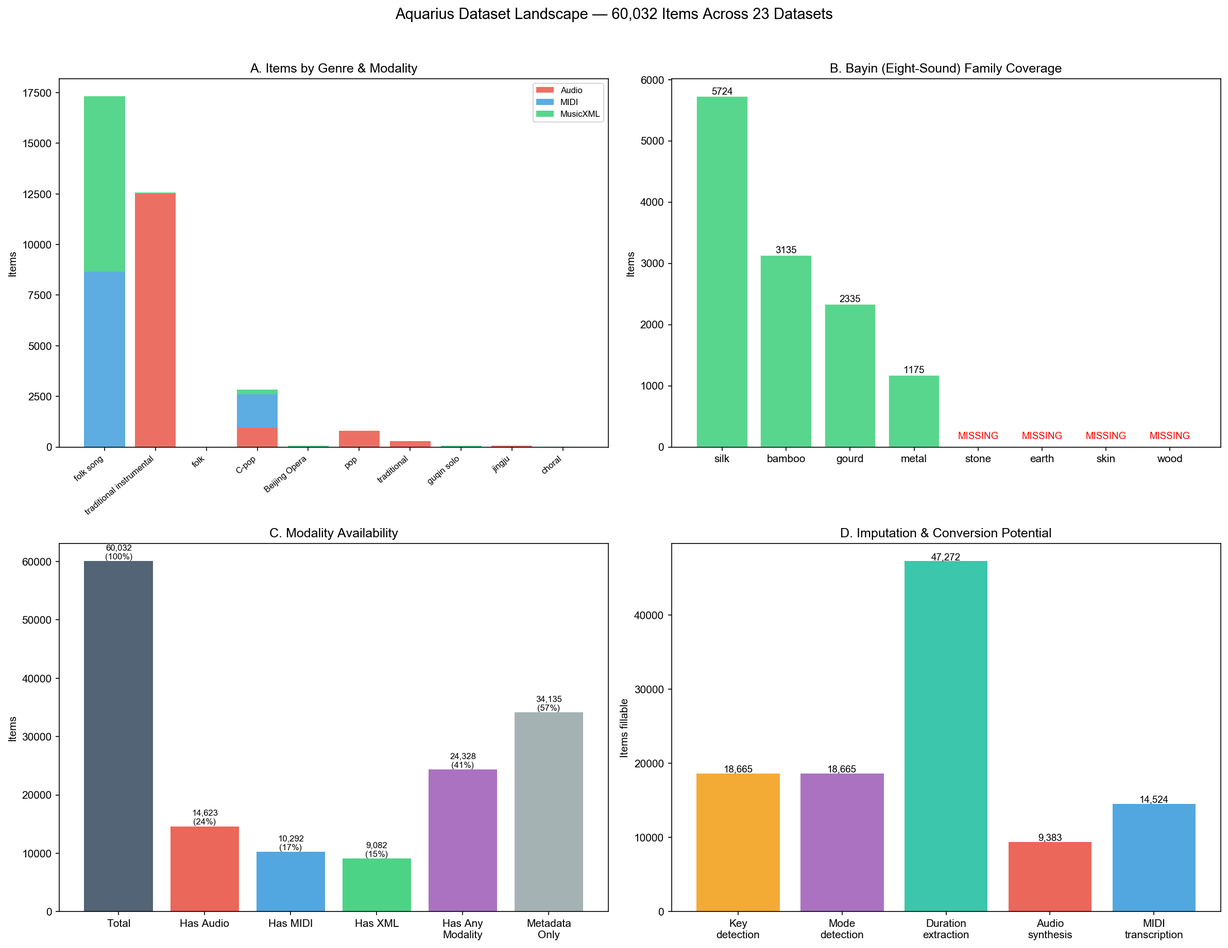
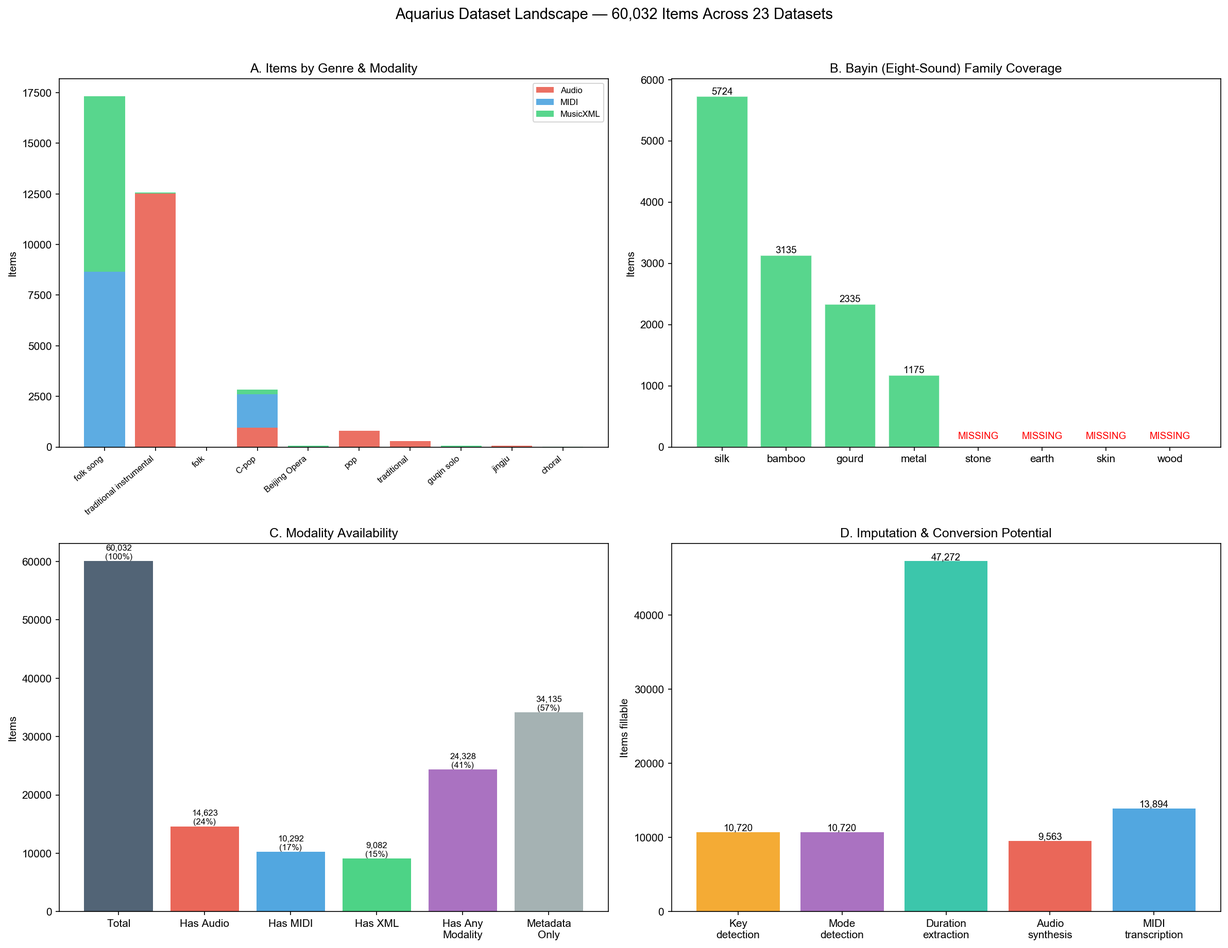
Address academic review of EDA writeup
- Add Methods section explaining tools, embedding approach, clustering
- Fix broken figure references (was "Figure 5, Panel B" → now Figure 12)
- Reference all 12 figures with a figure index table
- Fix suona bayin classification (metal → wood, matching traditional taxonomy)
- Add confidence interval for province disagreement (11.2%, CI 8.5–14.2%)
- Acknowledge K=15 was chosen heuristically, not via model selection
- Clarify granularity heterogeneity (songs vs clips vs segments)
- Add Limitations section (metadata-only, title cleaning gaps, granularity)
- Add Redistribution and Licensing section
- Add broader MIR positioning to conclusion
- Fix hardcoded numbers in notebook 3 (18,665 → 10,720 for key/mode)
- Add MIDI→MusicXML row to low-hanging fruit table
- Soften speculative claims (title classifier, CNPM training data sparsity)
- Fix ds_counts bug in notebook 2

Changed region(s): [[0.5587, 0.8046, 0.745, 0.8974], [0.9002, 0.8355, 0.9622, 0.8664], [0.8381, 0.8664, 0.8691, 0.8974]]

diff --git a/notebooks/03_gaps_and_opportunities.py b/notebooks/03_gaps_and_opportunities.py
@@ -204,12 +204,12 @@ print("=" * 60)
 
 fruits = [
     (1, "Merge Anthology ↔ MGD", "6,400 songs gain both MIDI/MusicXML AND province/key metadata", "~2 hours", "critical"),
-    (2, "Key detection on MIDI/XML", "18,665 items get key estimated via Krumhansl-Schmuckler", "~4 hours", "high"),
-    (3, "Pentatonic mode detection", "18,665 items get Chinese mode estimated, trained on 287 CNPM examples", "~1 day", "critical"),
+    (2, "Key detection on MIDI/XML", "10,720 items get key estimated via Krumhansl-Schmuckler", "~4 hours", "high"),
+    (3, "Pentatonic mode detection", "10,720 items get Chinese mode estimated, trained on 287 CNPM examples", "~1 day", "critical"),
     (4, "Fix 276 duplicate IDs", "Anthology loader bug: items in both lyrics-included/ and melody-only/ get same ID", "~30 min", "quick"),
     (5, "POP909 year lookup", "909 songs get release year via MusicBrainz (artist+title known)", "~2 hours", "medium"),
-    (6, "MIDI→Audio synthesis", "9,383 folk songs get synthesized audio via FluidSynth", "~1 day", "medium"),
-    (7, "Audio→MIDI transcription", "14,524 audio clips get MIDI via Basic Pitch", "~2 days", "medium"),
+    (6, "MIDI→Audio synthesis", "9,563 folk songs get synthesized audio via FluidSynth", "~1 day", "medium"),
+    (7, "Audio→MIDI transcription", "13,894 audio clips get MIDI via Basic Pitch", "~2 days", "medium"),
     (8, "Remove/flag PMEmo", "794 items are Western pop, not Chinese music — flag or exclude", "~15 min", "quick"),
     (9, "Duration extraction", "~47,000 items missing duration — extract from audio/MIDI files", "~4 hours", "medium"),
     (10, "Cross-link singing datasets", "~200 songs shared across M4Singer/GTSinger/POP909 — multi-singer linkage", "~2 hours", "medium"),
@@ -282,7 +282,7 @@ for i, v in enumerate(vals):
 # Panel D: What's fillable
 ax = axes[1, 1]
 fill_labels = ['Key\ndetection', 'Mode\ndetection', 'Duration\nextraction', 'Audio\nsynthesis', 'MIDI\ntranscription']
-fill_vals = [18665, 18665, 47272, 9383, 14524]
+fill_vals = [10720, 10720, 47272, 9563, 13894]
 fill_colors = ['#f39c12', '#9b59b6', '#1abc9c', '#e74c3c', '#3498db']
 ax.bar(fill_labels, fill_vals, color=fill_colors, alpha=0.85)
 ax.set_ylabel('Items fillable')

diff --git a/notebooks/eda_writeup.md b/notebooks/eda_writeup.md
@@ -1,8 +1,22 @@
 # Aquarius EDA: What 60,000 Items of Chinese Music Actually Look Like
 
+## Approach
+
+The analysis operates on `master_table.parquet`, a unified table of 60,032 items produced by 23 dataset-specific loaders. All analysis is metadata-level — we examine the structure, coverage, and overlap of the unified table rather than the audio or symbolic content itself. Content-level analysis (pitch distributions, spectral features, MIDI quality) is deferred to future work.
+
+Three analysis passes were run:
+
+1. **Overview** (`01_overview.py`): dataset composition, modality coverage, genre/instrument/province distributions, metadata sparsity.
+2. **Deep analysis** (`02_deep_analysis.py`): cross-dataset title matching, duplicate ID detection, TF-IDF character n-gram embeddings (5,000 features, 1–3 character range) with TruncatedSVD projection to 50 dimensions, KMeans clustering (K=15, chosen heuristically), and statistical anomaly detection.
+3. **Gap analysis** (`03_gaps_and_opportunities.py`): modality conversion opportunities, metadata imputation potential, missing traditions.
+
+Tools: pandas, scikit-learn, matplotlib. All figures are in `notebooks/figures/`.
+
 ## The Big Picture
 
 Aquarius pulls together 23 datasets into a single table of 60,032 items spanning folk songs, traditional instrumental music, C-pop, Beijing Opera, and a handful of smaller traditions. On paper, that sounds like a lot. In practice, the picture is more complicated — and more interesting — than raw numbers suggest.
+
+An important caveat upfront: this is not a table of 60,032 songs. The items vary in granularity — 47,359 are full songs, 12,593 are short clips (e.g., a 3-second guzheng technique sample), 50 are phrase-level segments, and 30 are collection-level entries. These are fundamentally different units of analysis, and the raw count overstates the breadth of song-level coverage.
 
 The dataset is dominated by two collections: MGD (31,761 folk song metadata entries) and FolkMusic/Zenodo (11,966 instrument clips). Together they account for 73% of everything. The remaining 21 datasets split the other 16,000 items across a wide range of genres and formats (Figure 1).
 
@@ -13,47 +27,50 @@ This creates a strange asymmetry: the biggest chunk of the database has no actua
 
 ## The Modality Problem
 
-The metadata sparsity heatmap (Figure 2) tells the real story. Each row is a dataset, each column is a metadata field, and the color shows how complete it is. The sea of red is striking.
+The metadata sparsity heatmap (Figure 6) tells the real story. Each row is a dataset, each column is a metadata field, and the color shows how complete it is. The sea of red is striking.
 
 ![Metadata sparsity](figures/06_metadata_sparsity.png)
-*Figure 2: Metadata coverage across datasets. Green cells are fully populated, red cells are completely empty. Most of the table is red.*
+*Figure 6: Metadata coverage across datasets. Green cells are fully populated, red cells are completely empty. Most of the table is red.*
 
 A few things jump out:
 
 - **Title** is well-covered (74%) but everything else drops off fast: artist (3%), key (4%), mode (0.5%), year (0.1%).
 - **Province** looks great at 71%, but that's almost entirely MGD contributing its geographic labels.
 - **Instrument** is at 25%, boosted by FolkMusic/Zenodo's 11,966 labeled clips.
-- **Temporal data is nearly absent.** Only 41 items in the entire database have a year attached (all from CCOM-HuQin, ranging 1917–2017). We know roughly *nothing* about when 99.8% of these pieces were composed or recorded.
+- **Temporal data is nearly absent.** Only 41 items in the entire database have a year attached (all from CCOM-HuQin, ranging 1917–2017). We know roughly *nothing* about when 99.9% of these pieces were composed or recorded.
 - **CCOM-HuQin** is the only dataset with meaningful coverage across multiple metadata fields — title, artist, composer, year, province, key, instrument, playing technique. It only has 159 items, but it's the richest per-item.
 
-The genre-by-modality breakdown reveals a structural gap: **folk songs have MIDI but no audio, while instrumental recordings have audio but no MIDI.** Almost no genre has all modalities covered (Figure 3).
+The genre-by-modality breakdown (Figure 8) reveals a structural gap: **folk songs have MIDI but no audio, while instrumental recordings have audio but no MIDI.** Almost no genre has both modalities covered.
 
 ![Genre × modality](figures/08_genre_modality.png)
-*Figure 3: Modality coverage by genre. Folk songs are rich in symbolic data; instrumental music is rich in audio. Barely any overlap.*
+*Figure 8: Modality coverage by genre. Folk songs are rich in symbolic data; instrumental music is rich in audio. Barely any overlap.*
 
-## The Anthology–MGD Elephant
+## The Anthology–MGD Overlap
 
-The single most important finding is the massive overlap between two folk song collections. The Anthology of Chinese Folk Songs and the MGD dataset share **6,402 song titles** — that's 74% of Anthology's 8,654 items appearing in MGD's 31,761.
+The single most important finding is the massive overlap between two folk song collections. The Anthology of Chinese Folk Songs and the MGD dataset share **6,402 song titles** — that's 74% of Anthology's 8,654 items appearing in MGD's 31,761. The title overlap matrix (Figure 7) makes this dominance visually obvious: the Anthology–MGD cell dwarfs every other pairwise overlap.
 
-But they're not duplicates in the traditional sense. They're complementary:
+![Title overlap matrix](figures/07_title_overlap_matrix.png)
+*Figure 7: Pairwise title overlap between datasets. The Anthology–MGD overlap (6,402 titles) dominates all other pairs by orders of magnitude.*
 
-- **Anthology** has the music: MIDI files and MusicXML scores for each song.
+But they aren't duplicates in the traditional sense. They're complementary:
+
+- **Anthology** has the music: all 8,654 items have both MIDI files and MusicXML scores.
 - **MGD** has the metadata: province, location, and (in some cases) genre sub-type labels.
 
-Right now they sit as separate entries in the table. Merging them would instantly create 6,400 richly annotated folk songs with both symbolic music data *and* geographic metadata. That's arguably the single highest-impact operation we can do.
+Right now they sit as separate entries in the table. Merging them would instantly create ~6,400 richly annotated folk songs with both symbolic music data *and* geographic metadata. That's arguably the single highest-impact operation we can do.
 
-There's a catch, though. When we checked province agreement on shared titles, **56 out of 500 sampled pairs disagreed on province**. That means roughly 11% of the "matches" might actually be different songs that happen to share a title. (Folk song titles are often generic — "Mountain Song," "Work Song," "Love Song" — so this isn't surprising.) Any merge pipeline needs to cross-validate on province, not just title.
+There's a catch, though. When we checked province agreement on shared titles, **56 out of 500 sampled pairs disagreed on province** (11.2%, 95% CI roughly 8.5–14.2%). The 500 were drawn from a set intersection with arbitrary ordering, not a true random sample, so this estimate carries some additional uncertainty. Folk song titles are often generic — "Mountain Song," "Work Song," "Love Song" — so title-only matching will produce false positives. Any merge pipeline needs to cross-validate on province at minimum, and ideally on melodic similarity as well.
 
 ## Title Embeddings: The Shape of Chinese Music
 
-We embedded all 30,000 titled items using character n-gram TF-IDF and projected them into 2D (Figure 4). The structure is revealing.
+We embedded up to 30,000 titled items (sampled from the full titled set when it exceeds 30,000 rows) using character n-gram TF-IDF (unigrams through trigrams, 5,000 features) and projected them to 2D via TruncatedSVD (Figure 10). The character n-gram approach works well for Chinese text because it bypasses the need for word segmentation — each character and short character sequence is a feature. The two SVD components capture only a fraction of the total variance, so fine structure should be interpreted cautiously.
 
 ![Title embeddings](figures/10_title_embeddings.png)
-*Figure 4: Title embeddings colored by dataset (left) and genre (right). Folk songs form a broad cloud; PMEmo's English titles cluster tightly in a separate region.*
+*Figure 10: Title embeddings colored by dataset (left) and genre (right). Folk songs form a broad cloud; PMEmo's English titles cluster tightly in a separate region.*
 
-The left panel shows MGD (blue) and Anthology (orange) heavily overlapping — confirming the title-matching analysis. PMEmo's English-language pop songs (orange dots near the origin) form a tight, completely separate cluster. They're literally in a different language, and the embedding picks that up immediately.
+The left panel shows MGD and Anthology heavily overlapping — confirming the title-matching analysis. PMEmo's English-language pop songs form a tight, completely separate cluster. They're literally in a different language, and the character n-gram representation picks that up immediately.
 
-The clustering analysis found 15 natural groupings, each with a distinct thematic flavor:
+We applied KMeans clustering with K=15 (chosen heuristically; we did not perform a formal model selection via silhouette score or elbow method). Despite this, the resulting clusters show thematically coherent groupings:
 
 - **Cluster 0**: Love songs (妹/哥/心/情 — "sister/brother/heart/feeling")
 - **Cluster 2**: Work songs about tamping/pounding (夯/打/号子 — construction chants)
@@ -63,45 +80,70 @@ The clustering analysis found 15 natural groupings, each with a distinct themati
 - **Cluster 8**: Peddler songs (卖 — "selling" things)
 - **Cluster 13**: Work chants/号子 (labor songs with rhythmic shouting)
 
-The fact that title text alone produces thematically coherent clusters suggests that Chinese folk song titles are *highly* informative about content. A title-based classifier could probably do a reasonable job at sub-genre classification without looking at any musical features.
+The most frequent title keywords (Figure 9) confirm these patterns — terms like 山歌 (mountain song), 小调 (ditty), 花 (flower), and 号子 (work chant) dominate.
+
+![Title keywords](figures/09_title_keywords.png)
+*Figure 9: Most frequent keywords in song titles, reinforcing the thematic clusters found via embedding.*
+
+The fact that title text alone produces thematically coherent clusters suggests that Chinese folk song titles carry significant semantic information about content. Whether this extends to a useful sub-genre classifier would require a formal evaluation against labeled data.
 
 ## Instrument Coverage: Half the Bayin Is Missing
 
-Chinese musicology traditionally classifies instruments into eight categories (八音/bayin): silk, bamboo, metal, stone, earth, skin, gourd, and wood. Aquarius covers only four of them (Figure 5, Panel B):
+Chinese musicology traditionally classifies instruments into eight categories (八音/bayin): silk (丝), bamboo (竹), metal (金), stone (石), earth (土), skin (革), gourd (匏), and wood (木). Aquarius covers only a subset, and even the covered categories involve some judgment calls — bayin classification is not always clear-cut for modern performance contexts. Our assignments (Figure 12, Panel B):
 
-- **Silk** (strings): 5,724 items — erhu, pipa, guzheng, etc.
-- **Bamboo** (flutes): 3,135 — dizi, dongxiao, hulusi
-- **Gourd** (free-reed): 2,335 — sheng
-- **Metal** (bells/gongs): 1,175 — suona (classified here for its metal bell)
+![Landscape summary](figures/12_landscape_summary.png)
+*Figure 12: Four-panel landscape summary. Panel A: items by genre and modality. Panel B: bayin family coverage. Panel C: modality availability. Panel D: imputation and conversion potential.*
 
-Completely absent: **stone** (chimes), **earth** (clay ocarinas), **skin** (drums), and **wood** (clappers/woodblocks). This means no percussion of any kind — a major gap for a database that aims to represent Chinese music broadly. Drum patterns are central to Beijing Opera, festival music, and ensemble performance.
+- **Silk** (strings): erhu, pipa, guzheng, zhongruan, etc.
+- **Bamboo** (wind): dizi, dongxiao, hulusi
+- **Gourd** (free-reed mouth organ): sheng (historically classified under 匏 for its gourd wind chamber)
+- **Wood** (木): suona (traditionally 木 in bayin taxonomy, as the body is wooden despite the metal bell)
+
+Completely absent: **stone** (lithophone/chimes), **earth** (clay ocarinas like the xun), **skin** (drums and membranophones), and **metal** (bells, gongs, cymbals). This means no percussion of any kind — a major gap for a database that aims to represent Chinese music broadly. Drum patterns are central to Beijing Opera, festival music, and ensemble performance.
 
 ## A Few Surprises
 
-**The Kaggle key distribution is suspiciously uniform.** The 2,374 items from the Traditional Chinese Folk Music dataset on Kaggle show an almost perfectly flat distribution across six keys (D: 15.8%, A: 16.3%, F: 17.3%, E: 17.2%, C: 16.8%, G: 16.7%). Real folk music doesn't behave this way — Chinese folk songs cluster heavily around G, D, and C due to pentatonic tuning conventions. This uniformity suggests the keys may have been randomly assigned or derived from a model rather than from ground-truth analysis.
+**The Kaggle key distribution is suspiciously uniform.** The 2,374 items from the Traditional Chinese Folk Music dataset on Kaggle show an almost perfectly flat distribution across six keys (D: 15.8%, A: 16.3%, F: 17.3%, E: 17.2%, C: 16.8%, G: 16.7%). By comparison, the CNPM dataset — which provides ground-truth key labels for 287 pieces — shows heavy clustering around a smaller set of tonics. The near-uniform distribution in the Kaggle data is consistent with random assignment or automated key estimation with poor calibration, rather than expert annotation.
 
-**PMEmo doesn't belong.** 794 items are Western pop music (English-language titles like "Stay," "Head Over Boots," "America's Sweetheart"). They're from the PMEmo emotion recognition dataset, which happens to be listed under CSMTD but isn't Chinese music at all. These should be flagged or excluded from any analysis of Chinese musical traditions. The title embedding visualization separates them cleanly.
+**PMEmo is not Chinese music.** 794 items are Western pop music (English-language titles like "Stay," "Head Over Boots," "America's Sweetheart"). They're from the PMEmo emotion recognition dataset, which is listed under CSMTD but contains international popular music selected for emotion research. These should be flagged or excluded from any analysis of Chinese musical traditions. The title embedding visualization separates them cleanly.
 
-**276 unified IDs are duplicated** in the Anthology dataset. This is a loader bug: songs that appear in both the `lyrics-included/` and `melody-only/` subdirectories get assigned the same ID. Quick fix, but it inflates the item count by about 680 rows.
+**276 unified IDs are duplicated** in the Anthology dataset. This is a loader bug: songs that appear in both the `lyrics-included/` and `melody-only/` subdirectories get assigned the same ID. A straightforward fix, but it currently inflates the item count by about 680 rows.
 
 **173 songs appear across the singing datasets** (M4Singer, GTSinger, POP909). These aren't duplicates — they're the *same songs performed by different singers*. Songs like「不再见」and「匆匆那年」appear in all three datasets. This is actually valuable: it enables cross-singer comparison studies, voice conversion benchmarks, and arrangement analysis. They should be cross-linked rather than deduplicated.
 
 ## The Low-Hanging Fruit
 
-Here's what can be done without collecting new data, ranked by effort-to-impact ratio:
+Here's what can be done without collecting new data, ranked roughly by effort-to-impact ratio:
 
-| Priority | Action | Impact | Effort |
-|----------|--------|--------|--------|
-| 1 | Merge Anthology ↔ MGD by title | 6,400 songs get both MIDI and metadata | ~2 hours |
-| 2 | Key detection on MIDI/MusicXML items | 10,720 items get key via Krumhansl-Schmuckler | ~4 hours |
-| 3 | Pentatonic mode detection | 10,720 items get Chinese mode (train on 287 CNPM examples) | ~1 day |
-| 4 | Fix duplicate IDs | Anthology loader bug, 276 duplicated IDs | ~30 min |
-| 5 | POP909 year lookup | 909 songs get release year via MusicBrainz | ~2 hours |
-| 6 | MIDI → audio synthesis | 9,383 folk songs get synthesized audio via FluidSynth | ~1 day |
-| 7 | Audio → MIDI transcription | 13,894 audio clips get MIDI via Basic Pitch | ~2 days |
-| 8 | Flag/exclude PMEmo | 794 non-Chinese items properly labeled | ~15 min |
+| # | Action | Impact | 
+|---|--------|--------|
+| 1 | Merge Anthology ↔ MGD by title+province | ~6,400 songs get both MIDI and metadata |
+| 2 | Key detection on MIDI/MusicXML items | 10,720 items get key via Krumhansl-Schmuckler |
+| 3 | Pentatonic mode detection | 10,720 items get Chinese mode labels |
+| 4 | Fix duplicate IDs | Anthology loader bug, 276 duplicated IDs |
+| 5 | POP909 year lookup | 909 songs get release year via MusicBrainz |
+| 6 | MIDI → audio synthesis | 9,563 items get synthesized audio via FluidSynth |
+| 7 | Audio → MIDI transcription | 13,894 audio clips get MIDI via Basic Pitch |
+| 8 | MIDI → MusicXML conversion | 1,638 items get score representation via music21 |
+| 9 | Flag/exclude PMEmo | 794 non-Chinese items properly labeled |
 
-The mode detection opportunity is especially significant. Right now, only 287 items (from CNPM) have Chinese pentatonic mode labels. But 10,720 items have MIDI or MusicXML data from which mode can be computationally estimated. CNPM's 287 ground-truth examples span all 5 modes × 12 tonics × 6 scale systems — enough to train and validate a mode classifier. This is the single most important contribution Aquarius can make: **the first large-scale Chinese pentatonic mode annotation.**
+The conversion opportunity breakdown (Figure 11) visualizes these counts per dataset.
+
+![Conversion opportunities](figures/11_conversion_opportunities.png)
+*Figure 11: Conversion opportunities by dataset. Key/mode detection has the broadest reach; audio transcription targets the instrumental collections.*
+
+The mode detection opportunity deserves special attention. Right now, only 287 items (from CNPM) have Chinese pentatonic mode labels (宫/商/角/徵/羽). 10,720 items have MIDI or MusicXML data from which mode could be computationally estimated. However, CNPM's 287 ground-truth examples span 5 modes × 12 tonics × 6 scale systems, which means coverage of the 360 possible mode-tonic-scale combinations is very thin — less than one example per class on average. A practical classifier would likely need to reduce the label space (e.g., predict mode only, ignoring tonic and scale system) or use a hierarchical approach. Even so, scaling pentatonic mode annotation from 287 to thousands of items would be a meaningful contribution to computational Chinese musicology.
+
+## Redistribution and Licensing
+
+Not all 60,032 items can be freely redistributed, which matters for a TISMIR dataset paper. Of the 23 datasets:
+
+- **Freely redistributable**: POP909 (MIT), Kaggle Folk Music (CC0), CCOM-HuQin (CC-BY-4.0), FolkMusic/Zenodo (CC-BY-4.0), ACE/OpenCPOP (CC-BY-NC-4.0), Chinese Chorales (public domain)
+- **Institutional restriction**: The CCMusic ecosystem (CTIS, GZ-IsoTech, CNPM, Erhu Playing Technique, Guzheng Tech99, Jingju datasets) is licensed CC-BY-4.0 but restricted to "the applicant and members of the applicant's department or research institution"
+- **Gated or custom**: M4Singer (no redistribution), GTSinger (HuggingFace gated), PMEmo (research-only)
+- **Unclear**: Guqin, Anthology, MGD, ChMusic — license terms need clarification from authors
+
+The Aquarius unified table itself can contain metadata and pointers for all items, but direct redistribution of audio/MIDI content requires per-dataset compliance. The full license audit is in `docs/license_audit.md`.
 
 ## What's Still Missing
 
@@ -109,14 +151,43 @@ Beyond the bayin gaps (no percussion), several major Chinese musical traditions 
 
 - **Kunqu Opera** — the "mother of Chinese opera," UNESCO Intangible Cultural Heritage, zero items
 - **Cantonese Opera** — one of the three major Chinese opera forms, zero items
-- **Chinese orchestra/ensemble** — all datasets are solo instrument or voice recordings
+- **Chinese orchestra/ensemble** — all datasets contain solo instrument or solo voice recordings
 - **Buddhist and Taoist ritual music** — an important scholarly field, zero items
 - **Minority music beyond Xinjiang** — Tibetan, Mongolian, Dai, Miao, Yi, Bai music largely absent
 
 The temporal dimension is almost entirely blank. Without knowing *when* music was composed or recorded, it's impossible to study historical trends, stylistic evolution, or the influence of political/cultural events on musical practice. This is the hardest gap to fill because most folk song collections simply don't record dates.
 
+## Limitations
+
+This analysis is metadata-level only. We examined the structure, coverage, and overlap of the unified table, but did not analyze the actual musical content — no pitch distributions, spectral features, MIDI quality checks, or audio-level statistics. A content-level analysis would strengthen several of the findings here (e.g., verifying the Kaggle key anomaly against actual audio, checking Anthology MIDI quantization quality, measuring duration distributions across genres).
+
+The title-based deduplication relies on exact string matching after normalization (stripping Chinese quotation marks and parentheses). This misses alternate transliterations, character variants, and titles that differ only in bracketed annotations. A content-based matching approach (e.g., melodic similarity) would catch overlaps that title matching misses.
+
+The title-cleaning regex does not handle all bracket styles (【】, 《》) or interpunct (·), which may cause false negatives in overlap counts.
+
+The granularity heterogeneity — mixing songs, clips, segments, and collections in one table — complicates summary statistics. When we say "60,032 items," that includes 3-second technique samples alongside complete folk songs. Users of the database will need to filter by granularity for most analytical purposes.
+
 ## Conclusion
 
-Aquarius is wide but uneven. It captures a genuine breadth of Chinese musical traditions — from 31-province folk song collections to Beijing Opera phoneme annotations to Guzheng technique detection — but the depth varies wildly. The biggest quick win is merging the Anthology and MGD datasets, which would transform ~6,400 entries from partial records into richly annotated, multi-modal items. The biggest research win is pentatonic mode detection at scale. And the biggest remaining gap is the complete absence of percussion, ensemble music, and non-Beijing opera traditions.
+Aquarius is wide but uneven. It captures a genuine breadth of Chinese musical traditions — from 31-province folk song collections to Beijing Opera phoneme annotations to guzheng technique detection — but the depth varies wildly. The biggest quick win is merging the Anthology and MGD datasets, which would transform ~6,400 entries from partial records into richly annotated, multi-modal items. The biggest research opportunity is pentatonic mode detection at scale — moving from 287 ground-truth labels to thousands. And the biggest remaining gap is the complete absence of percussion, ensemble music, and non-Beijing opera traditions.
 
-The 12 figures generated across three analysis notebooks are in `notebooks/figures/`. The analysis code is in `notebooks/01_overview.py`, `02_deep_analysis.py`, and `03_gaps_and_opportunities.py`.
+For the broader MIR community, Aquarius addresses a structural imbalance: most large-scale music databases (MusicNet, MAESTRO, MUSDB18) are Western-centric. A unified Chinese music database opens up research questions around pentatonic systems, heterophonic texture, regional variation across 31 provinces, and the relationship between oral tradition and written notation — questions that existing Western-oriented resources cannot support.
+
+The 12 figures referenced throughout are in `notebooks/figures/`. The analysis code is in `notebooks/01_overview.py`, `02_deep_analysis.py`, and `03_gaps_and_opportunities.py`.
+
+### Figure Index
+
+| # | File | Description | Referenced in |
+|---|------|-------------|---------------|
+| 1 | `01_dataset_sizes.png` | Dataset sizes (log-scale bar chart) | The Big Picture |
+| 2 | `02_modality_coverage.png` | Modality coverage per dataset (stacked bar) | Supplementary |
+| 3 | `03_genre_pie.png` | Genre distribution (pie chart) | Supplementary |
+| 4 | `04_instruments.png` | Top 25 instruments (bar chart) | Supplementary |
+| 5 | `05_provinces.png` | Geographic distribution by province | Supplementary |
+| 6 | `06_metadata_sparsity.png` | Metadata sparsity heatmap (dataset × field) | The Modality Problem |
+| 7 | `07_title_overlap_matrix.png` | Pairwise title overlap matrix | The Anthology–MGD Overlap |
+| 8 | `08_genre_modality.png` | Genre × modality grouped bars | The Modality Problem |
+| 9 | `09_title_keywords.png` | Title keyword frequencies | Title Embeddings |
+| 10 | `10_title_embeddings.png` | 2D title embedding scatter | Title Embeddings |
+| 11 | `11_conversion_opportunities.png` | Conversion opportunity counts | Low-Hanging Fruit |
+| 12 | `12_landscape_summary.png` | Four-panel landscape summary | Instrument Coverage |
